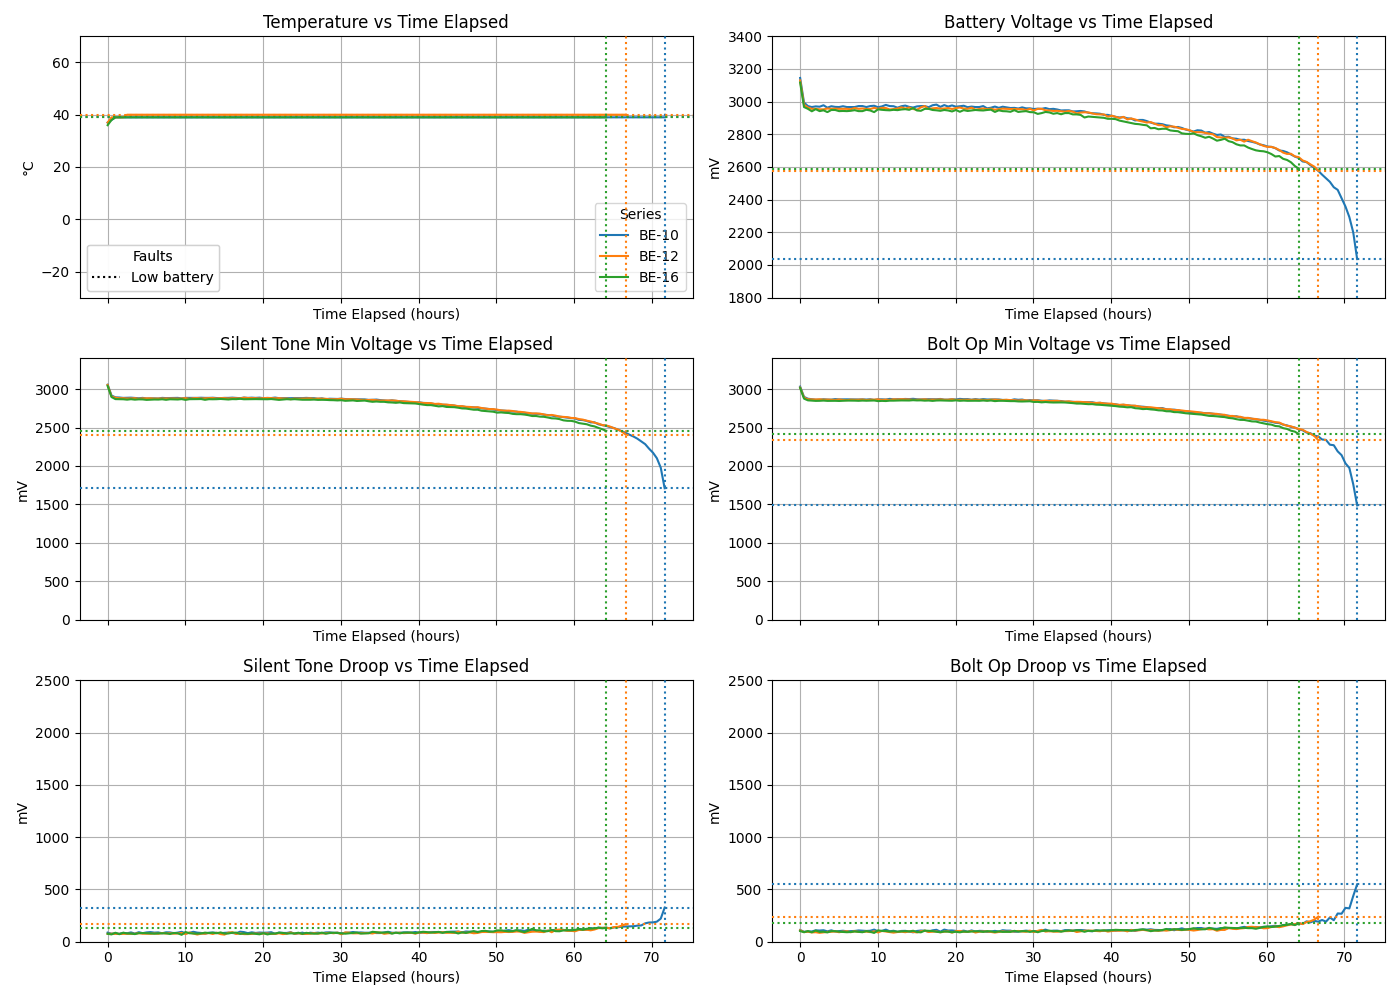
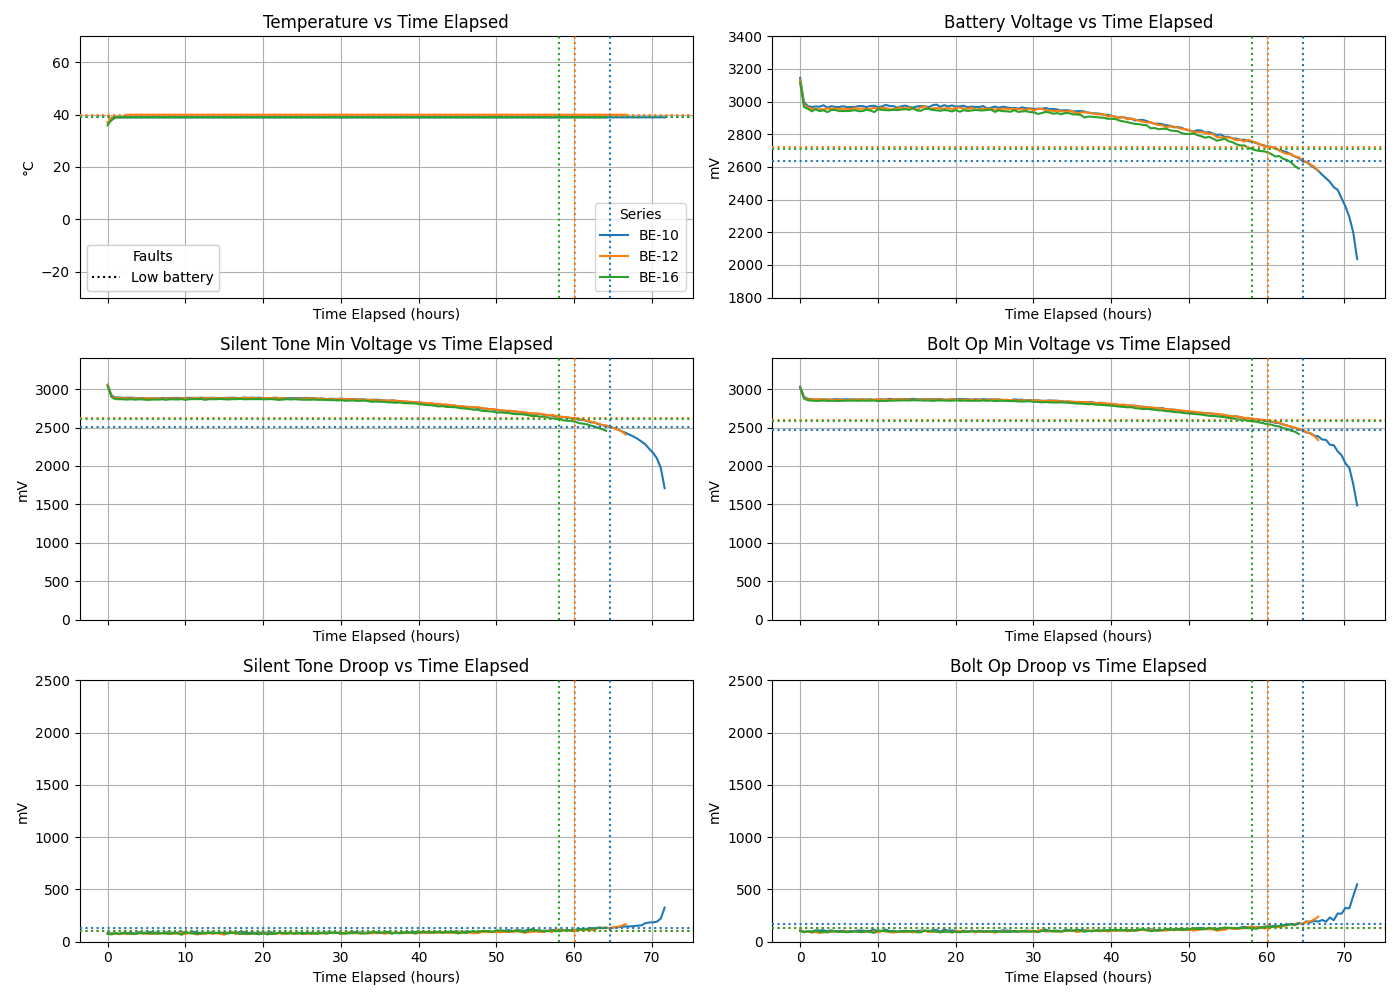
energizer 40c

diff --git a/plot_folder.py b/plot_folder.py
@@ -6,7 +6,7 @@ import numpy as np  # NEW
 from matplotlib.lines import Line2D
 
 # CONFIGURATION
-CSV_DIR = "csvs/manufacturers-cross-temp/temp-40c/duracell"
+CSV_DIR = "csvs/manufacturers-cross-temp/temp-40c/energizer"
 CSV_TAG = os.path.basename(os.path.normpath(CSV_DIR))
 PLOT_OUTPUT = f"plots/compare_all_{CSV_DIR.replace("/", "-")}.png"
 COMPUTE_LOW_BATT_BY_ALL_FAULTS=True
